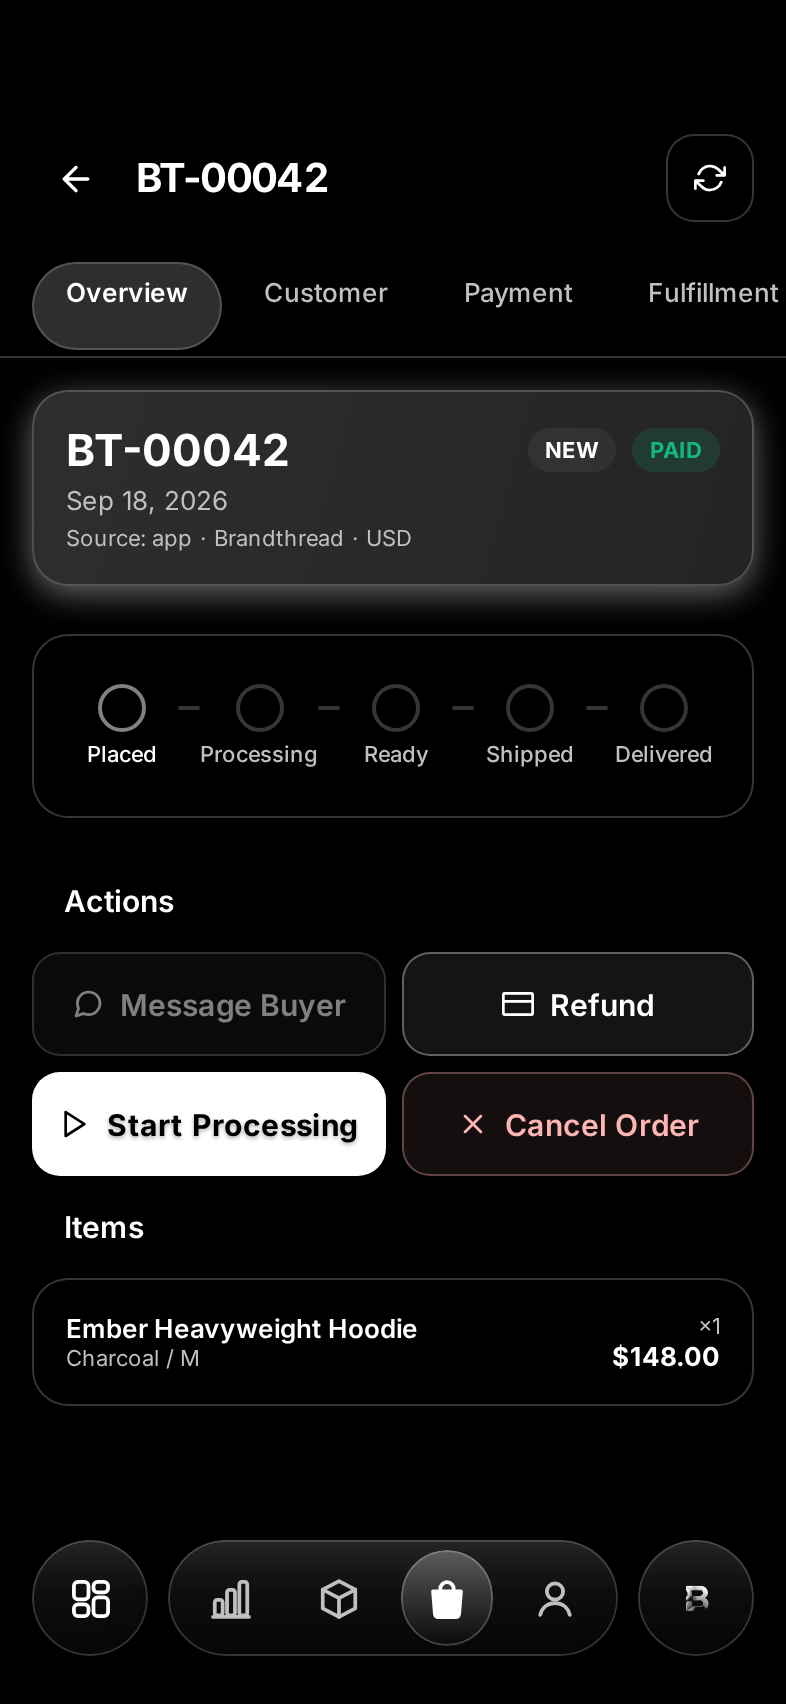
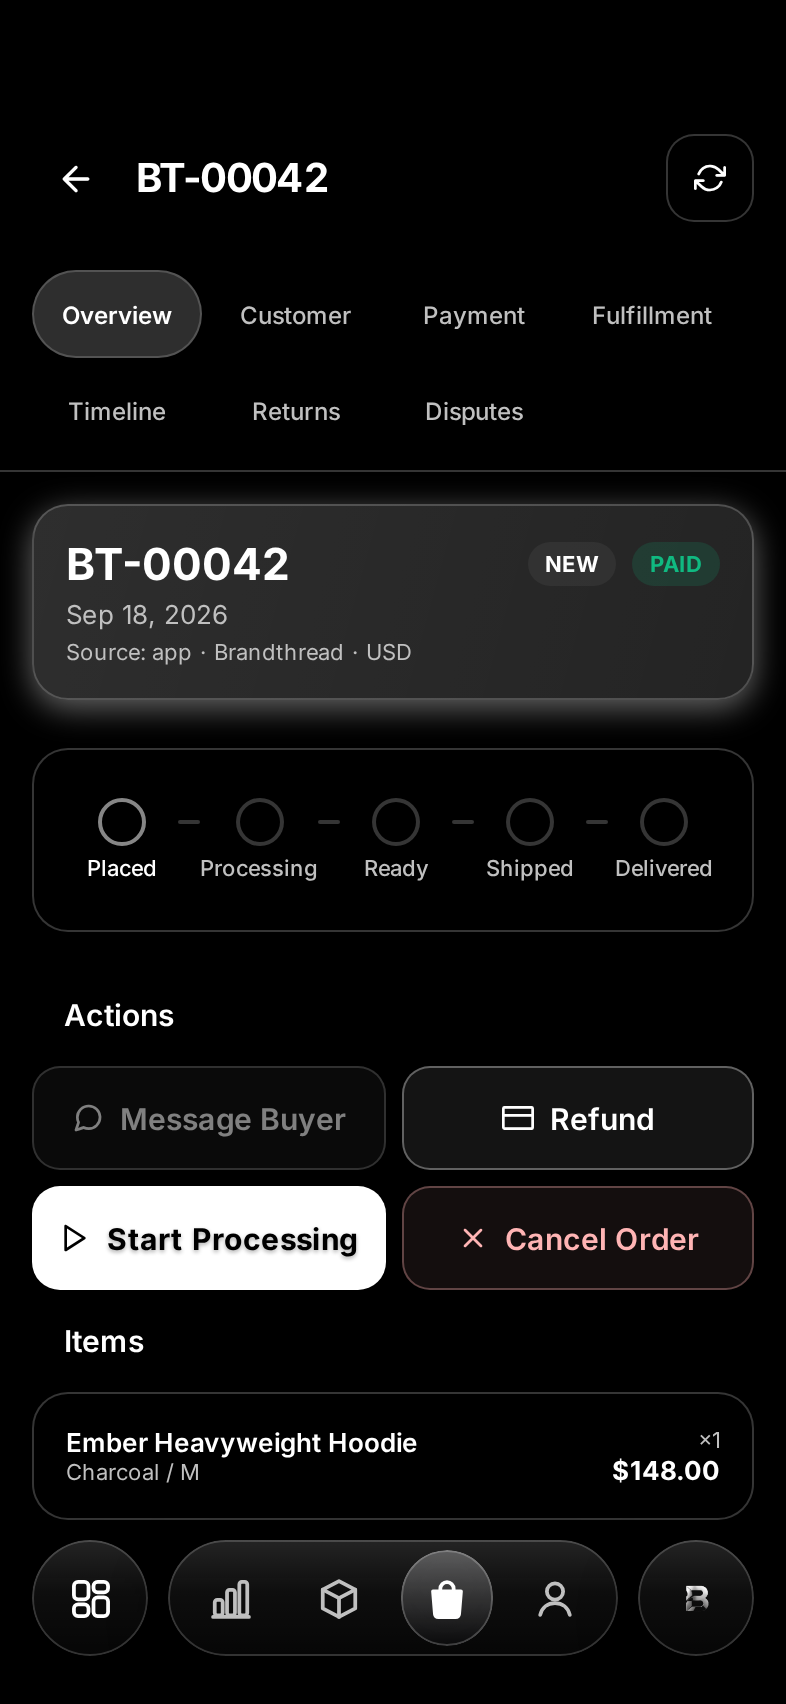
Order detail tabs as an equal 4-column grid, buyer screenshot, fit audit
Claude-Session: https://claude.ai/code/session_01Ma6qha3jaE6QgkAFX2DNVQ

diff --git a/artifacts/mobile/app/order-detail.tsx b/artifacts/mobile/app/order-detail.tsx
@@ -830,15 +830,10 @@ export default function OrderDetailScreen() {
       />
 
       {/* Tab bar */}
-      <ScrollView
-        horizontal
-        showsHorizontalScrollIndicator={false}
-        style={s.tabBar}
-        contentContainerStyle={s.tabBarContent}
-      >
+      <View style={s.tabBar}>
         {TABS.map(t => (
+          <View key={t.key} style={s.tabCell}>
           <PressableScale
-            key={t.key}
             onPress={() => { hapticToggle(); setActiveTab(t.key); }}
             style={[s.tabItem, activeTab === t.key && s.tabItemActive]}
             accessibilityRole="button"
@@ -849,8 +844,9 @@ export default function OrderDetailScreen() {
               {t.key === 'returns' && orderReturns && orderReturns.length > 0 ? `${t.label} (${orderReturns.length})` : t.label}
             </Text>
           </PressableScale>
+          </View>
         ))}
-      </ScrollView>
+      </View>
 
       {/* Cancellation confirmed banner */}
       {updatesPaused && (
@@ -1937,11 +1933,12 @@ const makeStyles = (theme: ReturnType<typeof useAppTheme>['theme']) => {
   centered:         { flex: 1, backgroundColor: 'transparent', alignItems: 'center', justifyContent: 'center' },
 
   // Tab bar
-  tabBar:           { borderBottomWidth: 1, borderBottomColor: BORDER, maxHeight: 52, backgroundColor: SURFACE },
-  tabBarContent:    { paddingHorizontal: SP.md, paddingRight: SP.lg, paddingVertical: SP.xs, gap: SP.xs, alignItems: 'center' },
-  tabItem:          { paddingHorizontal: SP.md, paddingVertical: SP.xs + 2, borderRadius: RADIUS.pill, borderWidth: 1, borderColor: 'transparent', backgroundColor: 'transparent' },
+  // 7 tabs cannot fit on one line at 393px, so they form an equal 4-column grid (no scrolling, nothing clipped).
+  tabBar:           { flexDirection: 'row', flexWrap: 'wrap', gap: SP.xs, paddingHorizontal: SP.md, paddingVertical: SP.sm, borderBottomWidth: 1, borderBottomColor: BORDER, backgroundColor: SURFACE },
+  tabCell:          { width: '23.6%' },
+  tabItem:          { width: '100%', alignItems: 'center', justifyContent: 'center', paddingHorizontal: SP.xs, paddingVertical: SP.sm, borderRadius: RADIUS.pill, borderWidth: 1, borderColor: 'transparent', backgroundColor: 'transparent' },
   tabItemActive:    { borderColor: PURPLE_DIM, backgroundColor: PURPLE_DIM },
-  tabLabel:         { fontSize: FS.sm, fontFamily: FONT.medium, color: MUTED },
+  tabLabel:         { fontSize: FS.meta, fontFamily: FONT.medium, color: MUTED },
   tabLabelActive:   { color: FG, fontFamily: FONT.semibold },
 
   // Content
